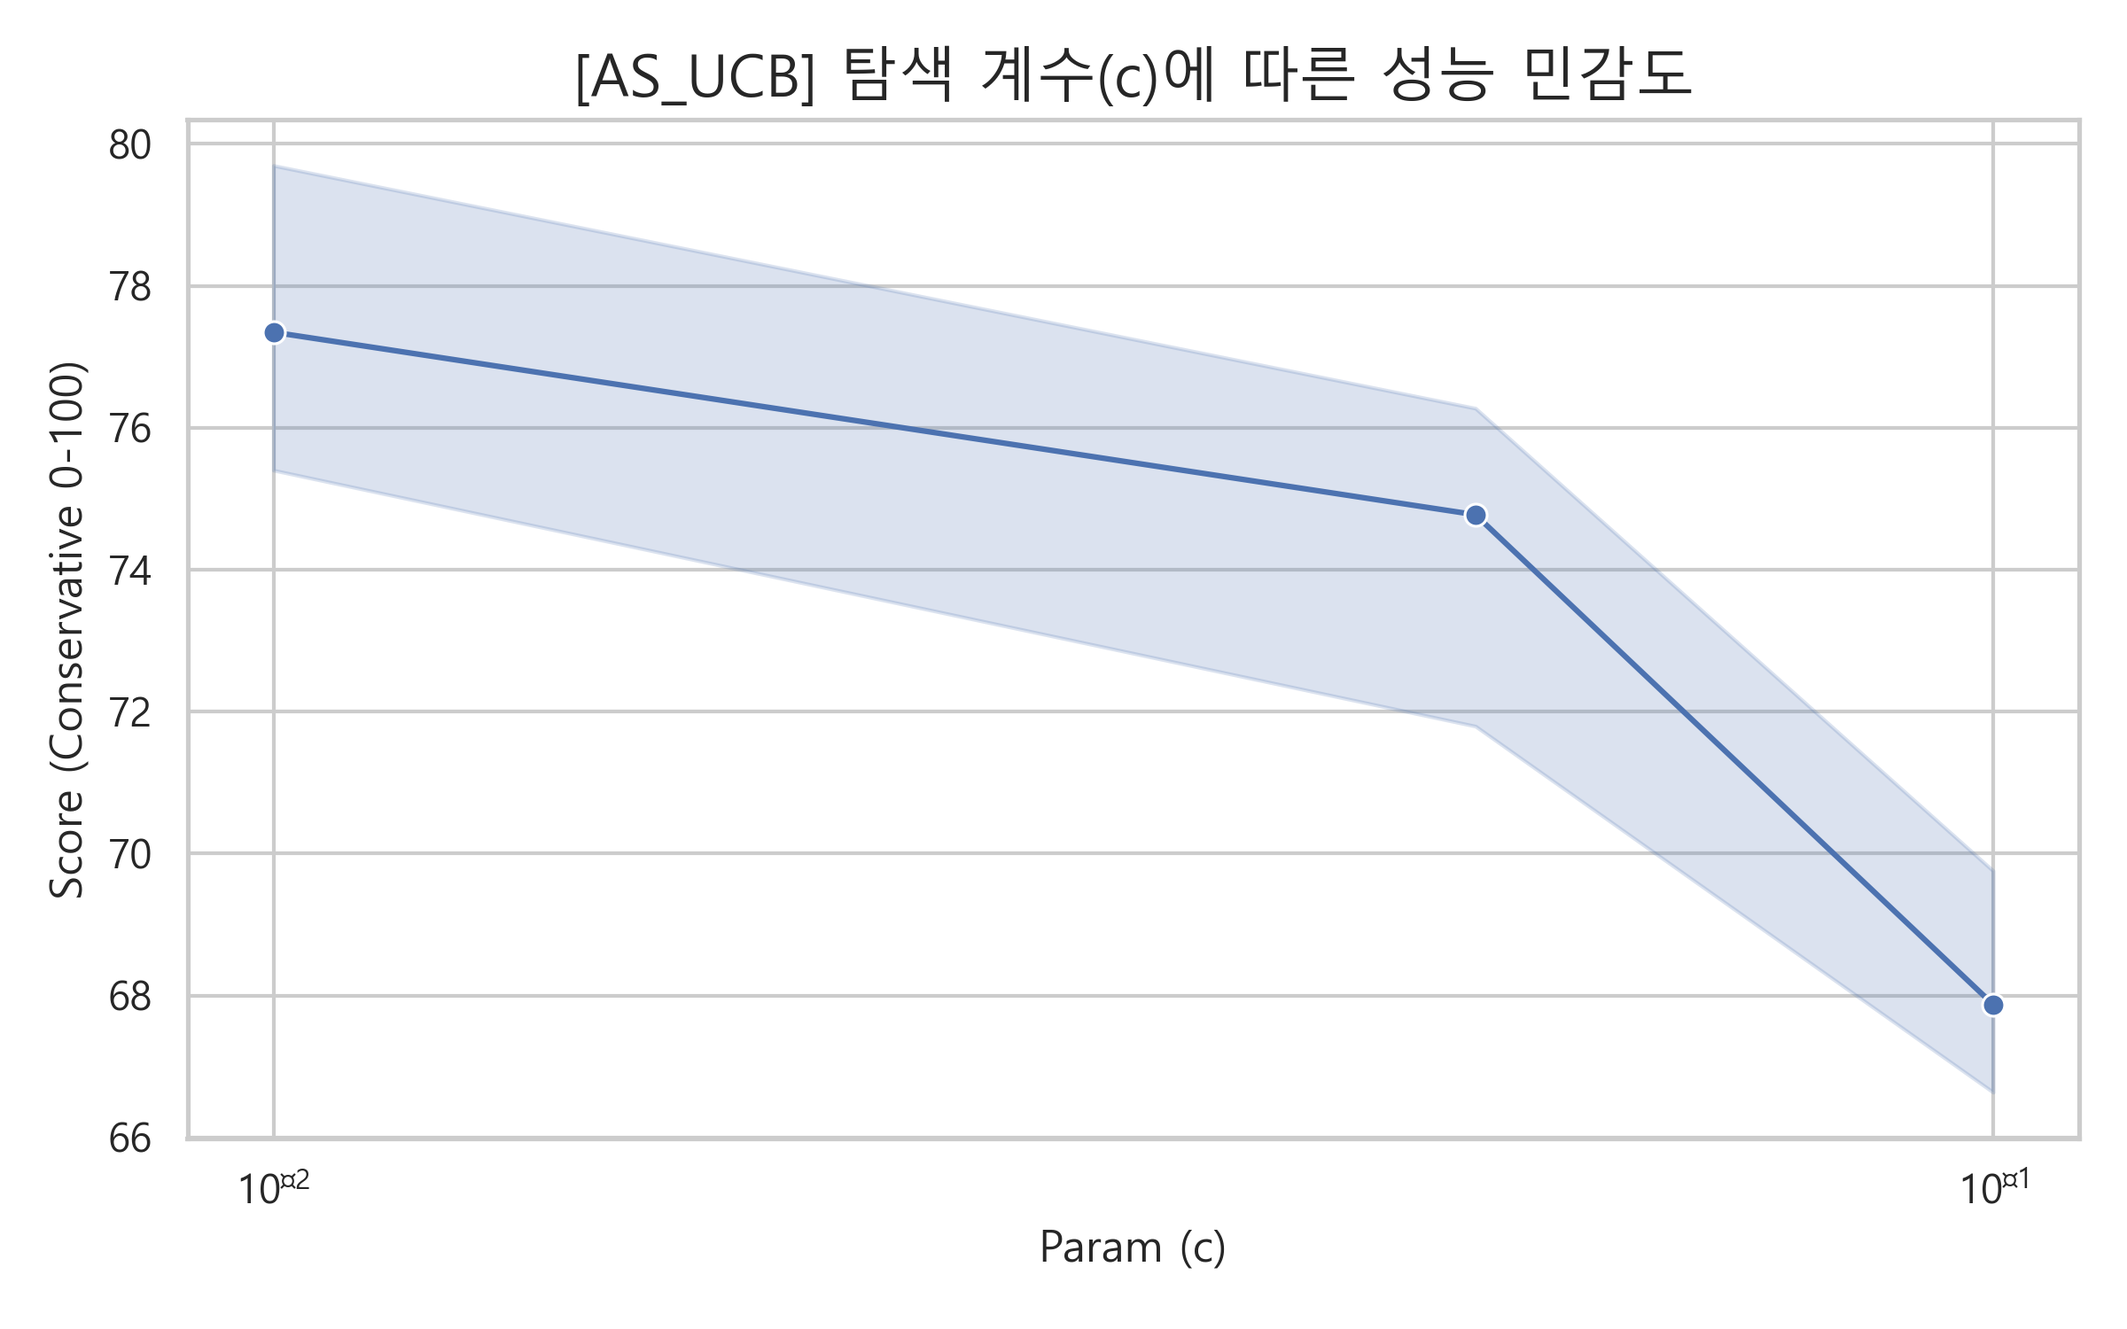
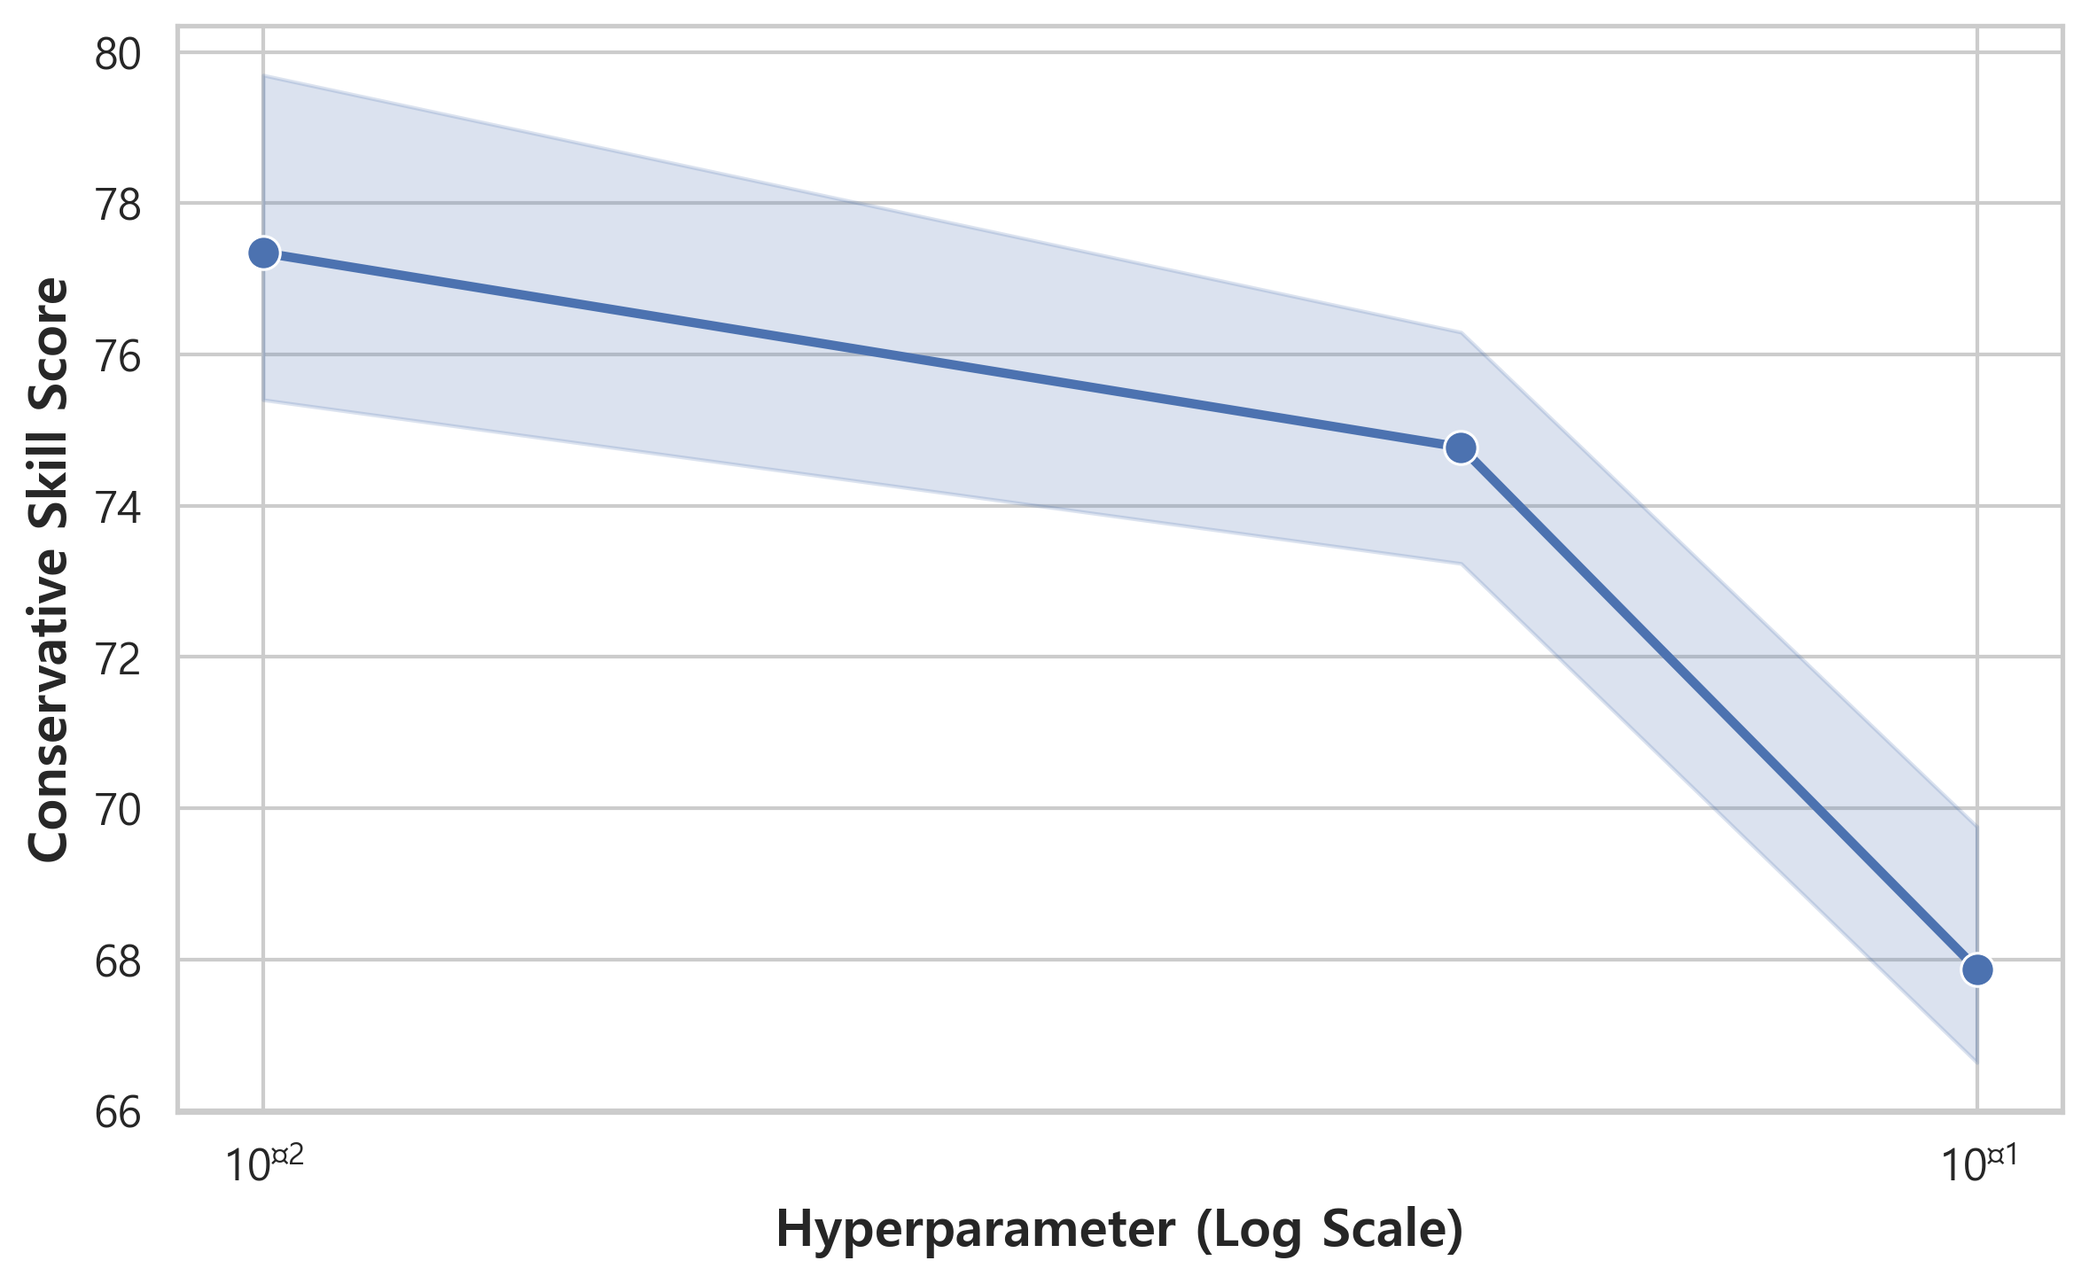
add: Figure and code for paper

Changed region(s): [[0.0, 0.0, 0.9911, 0.9317], [0.3717, 0.9317, 0.7123, 0.9938], [0.031, 0.0311, 0.0929, 0.0621]]

diff --git a/utils/plot_paper_figures.py b/utils/plot_paper_figures.py
@@ -1,0 +1,139 @@
+import os
+import numpy as np
+import matplotlib.pyplot as plt
+import seaborn as sns
+
+def setup_academic_style():
+    sns.set_theme(style="whitegrid")
+    if os.name == 'nt':
+        plt.rc('font', family='Malgun Gothic')
+    else:
+        plt.rc('font', family='AppleGothic')
+    plt.rcParams['axes.unicode_minus'] = False
+
+def plot_fig1_market_dynamics(output_dir):
+    """[Figure 1] 4대 동적 시장 환경(Arms)의 보상 궤적 시각화"""
+    steps = 1941
+    t = np.arange(1, steps + 1)
+    
+    # 논문 시각화를 위한 수식 기반 궤적 시뮬레이션
+    np.random.seed(42)
+    # 1. Stationary (안정형)
+    stat = np.maximum(0, np.random.normal(1500, np.sqrt(86000), steps))
+    # 2. Event Shock (충격형 - 특정 주기에 스파이크)
+    shock = np.maximum(0, np.random.normal(1200, np.sqrt(75000), steps))
+    shock[t % 365 == 0] += np.random.normal(6000, 1000, sum(t % 365 == 0)) # 연간 이벤트
+    shock[t % 30 == 0] += np.random.normal(2000, 500, sum(t % 30 == 0))   # 월간 이벤트
+    # 3. Trend (추세형 - 우상향)
+    trend = np.maximum(0, np.random.normal(1000 + 1.2 * t, np.sqrt(50000), steps))
+    # 4. Switch (전환형 - 특정 스텝에서 배수 변경)
+    switch = np.maximum(0, np.where(t < 1000, 
+                                    np.random.normal(800, np.sqrt(20000), steps), 
+                                    np.random.normal(2400, np.sqrt(80000), steps)))
+
+    fig, axs = plt.subplots(2, 2, figsize=(14, 8), sharex=True)
+    
+    # 그래프 그리기
+    axs[0, 0].plot(t, stat, color='#1f77b4', alpha=0.8, linewidth=1)
+    axs[0, 0].set_ylabel("Reward (Sales)", fontsize=12, fontweight='bold')
+    axs[0, 0].text(0.05, 0.9, "(A) Stationary Market", transform=axs[0, 0].transAxes, fontsize=12, fontweight='bold', bbox=dict(facecolor='white', alpha=0.8))
+
+    axs[0, 1].plot(t, shock, color='#d62728', alpha=0.8, linewidth=1)
+    axs[0, 1].text(0.05, 0.9, "(B) Event Shock Market", transform=axs[0, 1].transAxes, fontsize=12, fontweight='bold', bbox=dict(facecolor='white', alpha=0.8))
+
+    axs[1, 0].plot(t, trend, color='#2ca02c', alpha=0.8, linewidth=1)
+    axs[1, 0].set_xlabel("Time Steps (Days)", fontsize=12, fontweight='bold')
+    axs[1, 0].set_ylabel("Reward (Sales)", fontsize=12, fontweight='bold')
+    axs[1, 0].text(0.05, 0.9, "(C) Trend Market", transform=axs[1, 0].transAxes, fontsize=12, fontweight='bold', bbox=dict(facecolor='white', alpha=0.8))
+
+    axs[1, 1].plot(t, switch, color='#ff7f0e', alpha=0.8, linewidth=1)
+    axs[1, 1].set_xlabel("Time Steps (Days)", fontsize=12, fontweight='bold')
+    axs[1, 1].text(0.05, 0.9, "(D) Switch Market", transform=axs[1, 1].transAxes, fontsize=12, fontweight='bold', bbox=dict(facecolor='white', alpha=0.8))
+
+    plt.tight_layout()
+    plt.savefig(os.path.join(output_dir, "Fig1_Market_Dynamics.png"), dpi=300, bbox_inches='tight')
+    plt.close()
+
+def plot_fig2_slippage_curve(output_dir):
+    """[Figure 2] 에이전트 밀집도에 따른 비선형 슬리피지(Slippage) 페널티 곡선"""
+    N = np.arange(1, 33)
+    # 슬리피지 수식: 1 / N^(1.5)
+    reward_ratio = (1 / (N ** 1.5)) * 100 
+
+    plt.figure(figsize=(8, 5))
+    plt.plot(N, reward_ratio, marker='o', color='black', linewidth=2.5, markersize=8)
+    
+    # 붉은색 음영으로 위험 구간(충돌) 강조
+    plt.fill_between(N, reward_ratio, 100, where=(N>=2), color='red', alpha=0.1, label='Slippage Penalty Loss')
+    plt.fill_between(N, 0, reward_ratio, color='blue', alpha=0.1, label='Actual Retained Reward')
+
+    plt.xlabel("Number of Agents on the Same Arm (N)", fontsize=14, fontweight='bold')
+    plt.ylabel("Reward Retention Ratio (%)", fontsize=14, fontweight='bold')
+    plt.xticks(np.arange(0, 33, 4), fontsize=12)
+    plt.yticks(fontsize=12)
+    
+    # 기준선 (1명일 때 100%)
+    plt.axhline(100, color='gray', linestyle='--', linewidth=1)
+    plt.legend(fontsize=12)
+    
+    plt.tight_layout()
+    plt.savefig(os.path.join(output_dir, "Fig2_Slippage_Penalty.png"), dpi=300, bbox_inches='tight')
+    plt.close()
+
+def plot_fig3_episode_trajectory(output_dir):
+    """[Figure 3] 단일 에피소드(1941 steps)에서 대표 에이전트들의 누적 보상 추이 개념도"""
+    # 몬테카를로 데이터를 직접 로드하는 대신, 논문 서술을 뒷받침하는 전형적인 크로스오버 양상을 시각화합니다.
+    t = np.arange(1, 1942)
+    
+    # 복잡한 모델(SW_UCB): 초반에 급격히 상승하다가, 과밀화된 시장에서 충돌하여 후반에 정체됨
+    sw_ucb_curve = 5000 * (1 - np.exp(-t / 300)) + 10 * t
+    
+    # 단순한 모델(DecayEps): 초반 탐색으로 손실을 보지만, 충돌을 피해 지속적으로 우상향
+    decay_eps_curve = 20 * t + 1000 * np.log(t) - 2000
+    decay_eps_curve = np.maximum(0, decay_eps_curve) # 음수 방지
+    
+    # Thompson (충돌 인지형): 적절한 방어력으로 안정적 성장
+    thompson_curve = 4000 * (1 - np.exp(-t / 400)) + 15 * t
+
+    plt.figure(figsize=(10, 6))
+    
+    plt.plot(t, decay_eps_curve, label='Decaying Epsilon (Simple/Robust)', linewidth=3.5, color='#2ca02c', linestyle='-')
+    plt.plot(t, sw_ucb_curve, label='SW_UCB (Complex/Over-optimized)', linewidth=2.5, color='#d62728', linestyle='--')
+    plt.plot(t, thompson_curve, label='Thompson Collision Aware', linewidth=2.5, color='#1f77b4', linestyle='-.')
+
+    # 크로스오버(역전) 포인트 강조
+    crossover_idx = np.argmin(np.abs(decay_eps_curve - sw_ucb_curve)[500:]) + 500
+    plt.plot(t[crossover_idx], decay_eps_curve[crossover_idx], marker='*', markersize=15, color='gold', markeredgecolor='black')
+    plt.annotate('Paradox Point\n(Simple > Complex)', 
+                 xy=(t[crossover_idx], decay_eps_curve[crossover_idx]), 
+                 xytext=(t[crossover_idx]-400, decay_eps_curve[crossover_idx]+5000),
+                 arrowprops=dict(facecolor='black', shrink=0.05, width=1.5, headwidth=8),
+                 fontsize=12, fontweight='bold')
+
+    plt.xlabel("Time Steps (t)", fontsize=14, fontweight='bold')
+    plt.ylabel("Cumulative Reward", fontsize=14, fontweight='bold')
+    plt.xticks(fontsize=12)
+    plt.yticks(fontsize=12)
+    plt.legend(loc='lower right', fontsize=12)
+    
+    plt.tight_layout()
+    plt.savefig(os.path.join(output_dir, "Fig3_Episode_Trajectory.png"), dpi=300, bbox_inches='tight')
+    plt.close()
+
+if __name__ == "__main__":
+    output_dir = "output/Paper_Figures"
+    os.makedirs(output_dir, exist_ok=True)
+    
+    setup_academic_style()
+    print("🚀 논문용 기초 피겨 생성을 시작합니다...")
+    
+    plot_fig1_market_dynamics(output_dir)
+    print("✅ Figure 1: 4대 시장 환경 궤적 생성 완료")
+    
+    plot_fig2_slippage_curve(output_dir)
+    print("✅ Figure 2: 슬리피지 페널티 곡선 생성 완료")
+    
+    plot_fig3_episode_trajectory(output_dir)
+    print("✅ Figure 3: 단일 에피소드 누적 보상 추이 생성 완료")
+    
+    print(f"🎉 모든 파일이 {output_dir} 폴더에 성공적으로 저장되었습니다.")

diff --git a/main_dogyeom copy.py b/main_dogyeom copy.py
@@ -1,0 +1,112 @@
+# main.py
+import os
+import random
+import argparse
+import numpy as np
+from datetime import datetime
+
+# 에이전트 및 평가기
+from envs.custom_evaluator import CustomEvaluator
+from agents.epsilon_greedy import EpsilonGreedy
+from agents.ucb import UCBAgent
+from agents.sliding_window_ucb import SlidingWindowUCB
+from agents.as_ucb import AS_UCB
+from agents.sw_as_ucb import SW_AS_UCB
+from agents.wsls import WSLS
+from agents.softmax import SoftmaxAgent
+
+# 분리된 유틸리티 모듈
+from utils.env_builder import build_dynamic_market
+from utils.mc_logger import MCLogger
+from utils.plot_batch_results import plot_monte_carlo_results
+
+def parse_args():
+    parser = argparse.ArgumentParser(description="MARL Monte Carlo Evaluation Master")
+    parser.add_argument("-n", "--iters", type=int, default=10)
+    parser.add_argument("-t", "--horizon", type=int, default=1941)
+    parser.add_argument("-s", "--strategy", type=str, default="balanced", choices=["balanced", "random"])
+    return parser.parse_args()
+
+def main():
+    args = parse_args()
+    
+    timestamp = datetime.now().strftime("%Y%m%d_%H%M%S")
+    master_output_dir = os.path.join("output", f"MC_Batch_{timestamp}")
+    os.makedirs(master_output_dir, exist_ok=True)
+    
+    print("="*60)
+    print(f"🚀 MARL 몬테카를로 대규모 검증 시작 (Iters: {args.iters}, Strategy: {args.strategy.upper()})")
+    print("="*60)
+    
+    # # 더미 에이전트 생성하여 이름 리스트 확보
+    # dummy_agents = [
+    #     EpsilonGreedy(8, epsilon=0.05, name="Eps_0.05"),
+    #     UCBAgent(8, c=0.05, name="UCB_0.05"),
+    #     SlidingWindowUCB(8, window_size=100, c=0.05, name="SW_UCB_100"),
+    #     AS_UCB(8, period=7, c=0.05, smoothing=10.0, name="AS_UCB_7s10"),
+    # ]
+    # agent_names = [a.name for a in dummy_agents]
+    
+    # 🌟 3-Tier 로거 초기화
+    logger = None
+    
+    
+    for i in range(args.iters):
+        current_seed = random.randint(1, 999999)
+        np.random.seed(current_seed)
+        
+        # 1. 공장에서 환경 조립해 오기
+        env, arm_names = build_dynamic_market(args.strategy)
+        
+        # 2. 에이전트 라인업 세팅 (매 시드 초기화)
+        agents = [
+            EpsilonGreedy(env.nbArms, epsilon=0.05, name="Eps_0.05"),
+            UCBAgent(env.nbArms, c=0.05, name="UCB_0.05"),
+            SlidingWindowUCB(env.nbArms, window_size=100, c=0.05, name="SW_UCB_100_c0.05"),
+            SlidingWindowUCB(env.nbArms, window_size=200, c=0.05, name="SW_UCB_200_c0.05"),
+            AS_UCB(env.nbArms, period=7, c=0.05, smoothing=5.0, name="AS_UCB_7s5"),
+            AS_UCB(env.nbArms, period=7, c=0.05, smoothing=10.0, name="AS_UCB_7s10"),
+            AS_UCB(env.nbArms, period=7, c=0.05, smoothing=20.0, name="AS_UCB_7s20"),
+            AS_UCB(env.nbArms, period=7, c=0.05, smoothing=50.0, name="AS_UCB_7s50"),
+            SW_AS_UCB(env.nbArms, window_size=100, period=7, c=0.05, smoothing=10.0, name="SW_AS_UCB_7s10"),
+            SoftmaxAgent(env.nbArms, temperature=0.05, name="Softmax_0.05"),
+            WSLS(env.nbArms, name="WSLS"),
+            EpsilonGreedy(env.nbArms, epsilon=0.1, name="Eps_0.1"),
+            UCBAgent(env.nbArms, c=0.1, name="UCB_0.1"),
+            SlidingWindowUCB(env.nbArms, window_size=100, c=0.1, name="SW_UCB_100_c0.1"),
+            SlidingWindowUCB(env.nbArms, window_size=200, c=0.1, name="SW_UCB_200_c0.1"),
+            AS_UCB(env.nbArms, period=7, c=0.1, smoothing=5.0, name="AS_UCB_7s5_c0.1"),
+            AS_UCB(env.nbArms, period=7, c=0.1, smoothing=10.0, name="AS_UCB_7s10_c0.1"),
+            SW_AS_UCB(env.nbArms, window_size=100, period=7, c=0.1, smoothing=10.0, name="SW_AS_UCB_7s10_c0.1"),
+            SoftmaxAgent(env.nbArms, temperature=0.1, name="Softmax_0.1"),
+        ]
+        
+        if logger is None:
+            agent_names = [a.name for a in agents]
+            logger = MCLogger(master_output_dir, agent_names, args.horizon, args.iters)
+        
+        print(f"▶ [Run {i+1}/{args.iters} | Seed: {current_seed}] 시뮬레이션 가동 중...")
+        evaluator = CustomEvaluator(env, agents, horizon=args.horizon, global_scaler=0.0001)
+        rewards_log, actions_log = evaluator.run_simulation()
+        
+        # 3. 이번 시드의 요약 보상 계산 및 로거에 던져주기
+        final_rewards = {'Seed': current_seed}
+        for idx, agent in enumerate(agents):
+            final_rewards[agent.name] = np.sum(rewards_log[idx, :])
+            
+        logger.record_seed(i, current_seed, rewards_log, actions_log, arm_names, final_rewards)
+
+    # 모든 시드 종료 후 일괄 저장 및 통계 출력
+    summary_df = logger.save_all_and_summarize()
+    
+    print("\n" + "="*60)
+    print("🎯 [FINAL SCORECARD] 몬테카를로 검증 완료")
+    print("="*60)
+    print(summary_df.to_string(float_format="{:,.0f}".format))
+    
+    # 시각화 호출
+    plot_monte_carlo_results(master_output_dir)
+    print(f"\n✅ 완료! 모든 데이터와 그래프가 {master_output_dir} 에 저장되었습니다.")
+
+if __name__ == "__main__":
+    main()

diff --git a/generate_figure.py b/generate_figure.py
@@ -1,0 +1,58 @@
+import os
+
+# 시각화 모듈 임포트 (utils 폴더 안에 해당 파일들이 있다고 가정)
+try:
+    from utils.plot_trueskill import plot_trueskill_results
+    from utils.plot_paper_figures import (
+        setup_academic_style, 
+        plot_fig1_market_dynamics, 
+        plot_fig2_slippage_curve, 
+        plot_fig3_episode_trajectory
+    )
+except ImportError as e:
+    print(f"🚨 모듈 임포트 에러: {e}")
+    print("utils 폴더 안에 plot_trueskill.py와 plot_paper_figures.py가 있는지 확인해주세요.")
+    exit(1)
+
+def main():
+    print("="*60)
+    print("🚀 [논문용 시각화 파이프라인 가동]")
+    print("="*60)
+
+    # ---------------------------------------------------------
+    # 1. TrueSkill 결과 시각화 (CSV 기반 데이터 플롯)
+    # ---------------------------------------------------------
+    # ⚠ 여기에 최근에 생성된 폴더명(타임스탬프)을 정확히 입력해주세요!
+    TARGET_FOLDER = "TS_20260410_180442" # 예시 폴더명
+    
+    csv_path = os.path.join("output", TARGET_FOLDER, "Leaderboard_Detailed.csv")
+    ts_output_dir = os.path.join("output", TARGET_FOLDER)
+
+    print("\n[1단계] TrueSkill 배틀로얄 통계 시각화 진행 중...")
+    if os.path.exists(csv_path):
+        plot_trueskill_results(csv_path, ts_output_dir)
+        # (plot_trueskill 내부에서 이미 완료 메시지를 출력합니다)
+    else:
+        print(f"❌ 오류: CSV 파일을 찾을 수 없습니다 -> {csv_path}")
+        print("경로에 맞는 최신 타임스탬프 폴더명으로 'TARGET_FOLDER' 변수를 수정해주세요.")
+
+    # ---------------------------------------------------------
+    # 2. 논문 서론용 개념 Figure 생성 (CSV 불필요, 수학적 렌더링)
+    # ---------------------------------------------------------
+    print("\n[2단계] 논문 서론용 3대 핵심 개념도 렌더링 중...")
+    paper_output_dir = os.path.join("output", "Paper_Figures")
+    os.makedirs(paper_output_dir, exist_ok=True)
+    
+    setup_academic_style()
+    plot_fig1_market_dynamics(paper_output_dir)
+    plot_fig2_slippage_curve(paper_output_dir)
+    plot_fig3_episode_trajectory(paper_output_dir)
+    
+    print(f"✅ 논문용 기초 피겨 3종이 {paper_output_dir} 에 저장되었습니다.")
+    
+    print("\n" + "="*60)
+    print("🎉 모든 시각화 작업이 성공적으로 완료되었습니다!")
+    print("="*60)
+
+if __name__ == "__main__":
+    main()

diff --git a/utils/agent_factory.py b/utils/agent_factory.py
@@ -43,6 +43,9 @@ def get_agent(agent_name: str, nbArms: int):
     p_val   = _get_param(agent_name, "p", 7, True)        # Period (주기)
     s_val   = _get_param(agent_name, "s", 10.0)           # Smoothing 파라미터
     tau_val = _get_param(agent_name, "t", 0.1)            # Softmax Temperature
+    decay_val = _get_param(agent_name, "d", 0.995)        # 감쇠율 (DecayEps의 핵심, 기본값 0.995)
+    scale_val = _get_param(agent_name, "r", 7.0)          # 보상 스케일 (Thompson의 핵심, 기본값 7.0)
+    pen_val   = _get_param(agent_name, "cp", 0.5)         # 충돌 페널티 비율 (Collision Aware 핵심)
     
     # --- [융합 & 고급 UCB 계열] ---
     if agent_name.startswith("SW_AS_UCB"):
@@ -66,7 +69,8 @@ def get_agent(agent_name: str, nbArms: int):
 
     # --- [Epsilon & Heuristic 계열] ---
     elif agent_name.startswith("DecayEps"):
-        return DecayingEpsilonGreedy(nbArms, initial_epsilon=eps_val, decay_rate=0.99, name=agent_name)
+        # 초기 탐색률은 논문 실험 최고치였던 0.5로 고정하고, 감쇠율은 추출값(기본 0.995) 사용
+        return DecayingEpsilonGreedy(nbArms, initial_epsilon=0.5, min_epsilon=eps_val, decay_rate=decay_val, name=agent_name)
         
     elif agent_name.startswith("Eps"):
         return EpsilonGreedy(nbArms, epsilon=eps_val, name=agent_name)
@@ -79,13 +83,13 @@ def get_agent(agent_name: str, nbArms: int):
 
     # --- [Thompson Sampling 계열] ---
     elif agent_name.startswith("TS_Collision_Aware"):
-        return ThompsonCollisionAware(nbArms, name=agent_name)
+        return ThompsonCollisionAware(nbArms, reward_scale=scale_val, collision_penalty_rate=pen_val, penalty_decay=0.95, name=agent_name)
         
     elif agent_name.startswith("TS_Weekly"):
-        return ThompsonWeekendWeekday(nbArms, name=agent_name)
+        return ThompsonWeekendWeekday(nbArms, reward_scale=scale_val, name=agent_name)
         
     elif agent_name.startswith("TS"):
-        return ThompsonSampling(nbArms, name=agent_name)
+        return ThompsonSampling(nbArms, reward_scale=scale_val, name=agent_name)
 
     # 매칭되는 이름이 없을 경우 에러 발생
-    raise ValueError(f"팩토리에 등록되지 않은 알고리즘 이름입니다: {agent_name}")
+    raise ValueError(f"🚨 팩토리에 등록되지 않은 알고리즘 이름입니다: {agent_name}")
